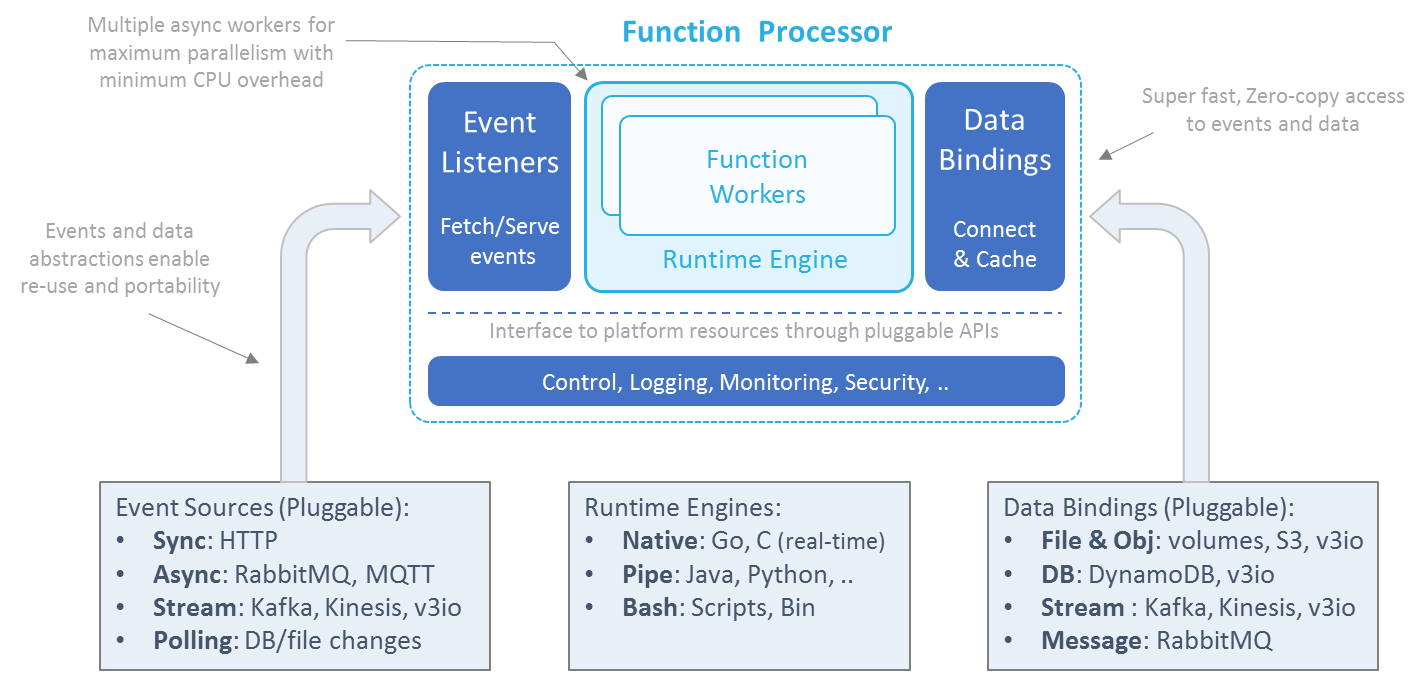
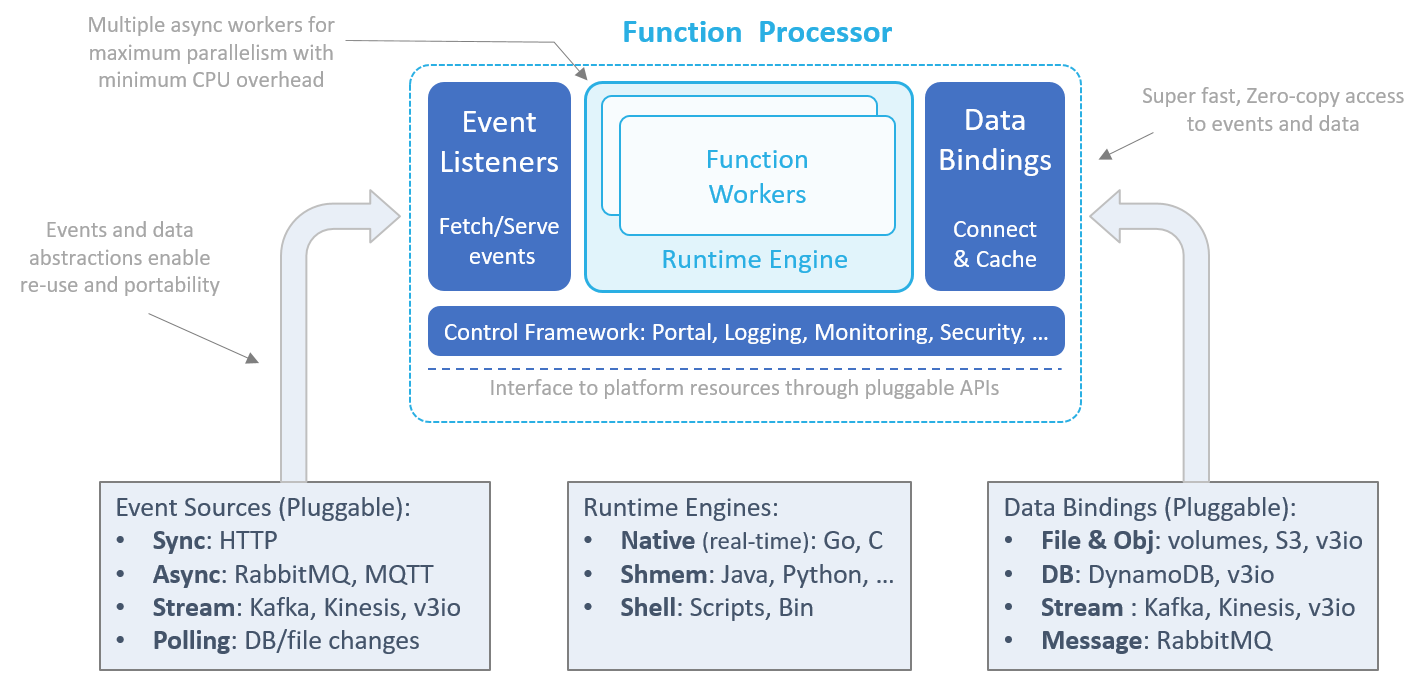
update MDs

diff --git a/docs/architecture.md b/docs/architecture.md
@@ -1,4 +1,11 @@
-# Function Processors
+# Architecture Details
+
+**In This Document**  
+- [Function Processors](#function-processors)
+- [Event Sources and Mapping](#event-sources-and-mapping)
+- [Function Build and Deployment flow](#function-build-and-deployment-flow)
+
+## Function Processors
 
 Function processors provide an environment for executing functions.
 The processor feeds functions with events, provides context and data, collects logs and statistics, and manages the function's life cycle.  
@@ -7,7 +14,7 @@ Processors can be compiled into a single Go or C binary, or packaged into a cont
 Processor containers can run as standalone Docker containers, or on top of a container-orchestration platform such as Kubernetes.
 
 
-## Processor Architecture
+### Processor Architecture
 
 nuclio's unique processor architecture is aimed at maximizing function performance and providing abstractions and portability across a wide set of platforms, event sources, and data services. 
 
@@ -15,13 +22,13 @@ nuclio's unique processor architecture is aimed at maximizing function performan
 
 The processor has four main components:
 
-### Event-Source Listeners 
+#### Event-Source Listeners 
 
 Event-source listeners can listen on sockets and message queues, or periodically fetch events from external event or data sources.
 Received events are mapped to a common schema (decoupling function logic from the implementation of the event source), and pushed to one or more parallel runtime workers.  
 The event listeners also guarantee event execution &mdash; for example, by storing stream checkpoints, acknowledging message-queue events, or responding to HTTP client requests.
 
-### Runtime Engine
+#### Runtime Engine
 
 The runtime engine ("runtime") initializes the function environment (variables, context, log, data bindings, etc.), feeds event objects into functions workers, and returns responses to the event sources.  
 Runtimes can have multiple independent parallel workers (for example, Go routines, Python asyncio, Akka, or threads) to enable non-blocking operations and maximize CPU utilization.
@@ -36,7 +43,7 @@ nuclio currently supports three types of processor runtime implementations:
     Upon receiving an event, the processor runs the executable in a command-line shell, using the relevant command and environment variables, and then maps the executable's standard-output (`stdout`) or standard-error (`stderr`) logs to the function results.  
     **Note:** The shell runtime supports only file data bindings.
 
-### Data Bindings 
+#### Data Bindings 
 
 Functions can benefit from persistent data connections to external files, objects, databases, or messaging systems.
 The runtime initializes the data-service connection based on the type, URL, properties, and credentials specified in the function specification, and serves them to the function through the context object.  
@@ -45,10 +52,15 @@ They also enable function reuse and portability, because different data services
 Data bindings can also handle aspects of data prefetching, caching, and micro-batching, to reduce execution latency and increase I/O performance.
 Data bindings and event sources are designed with zero-copy, zero-serialization, and non-blocking operation, and enable real-time performance without the need for any special function code.
 
-### Control Framework 
+#### Control Framework 
 
 The control framework initializes and controls the different processor components, provides logging for the processor and the function (stored in different log streams), monitors execution statistics, and serves a mini portal for remote management.  
 The control framework interacts with the underlining platform through abstract interfaces, allowing for portability across different IoT devices, container orchestrators, and cloud platforms.
 The platform-specific processor configuration is done through a **processor.yaml** file in the working directory.
 Function developers should not modify this file. 
+
+## Event Sources and Mapping
+
+
+## Function Build and Deployment flow 
 
